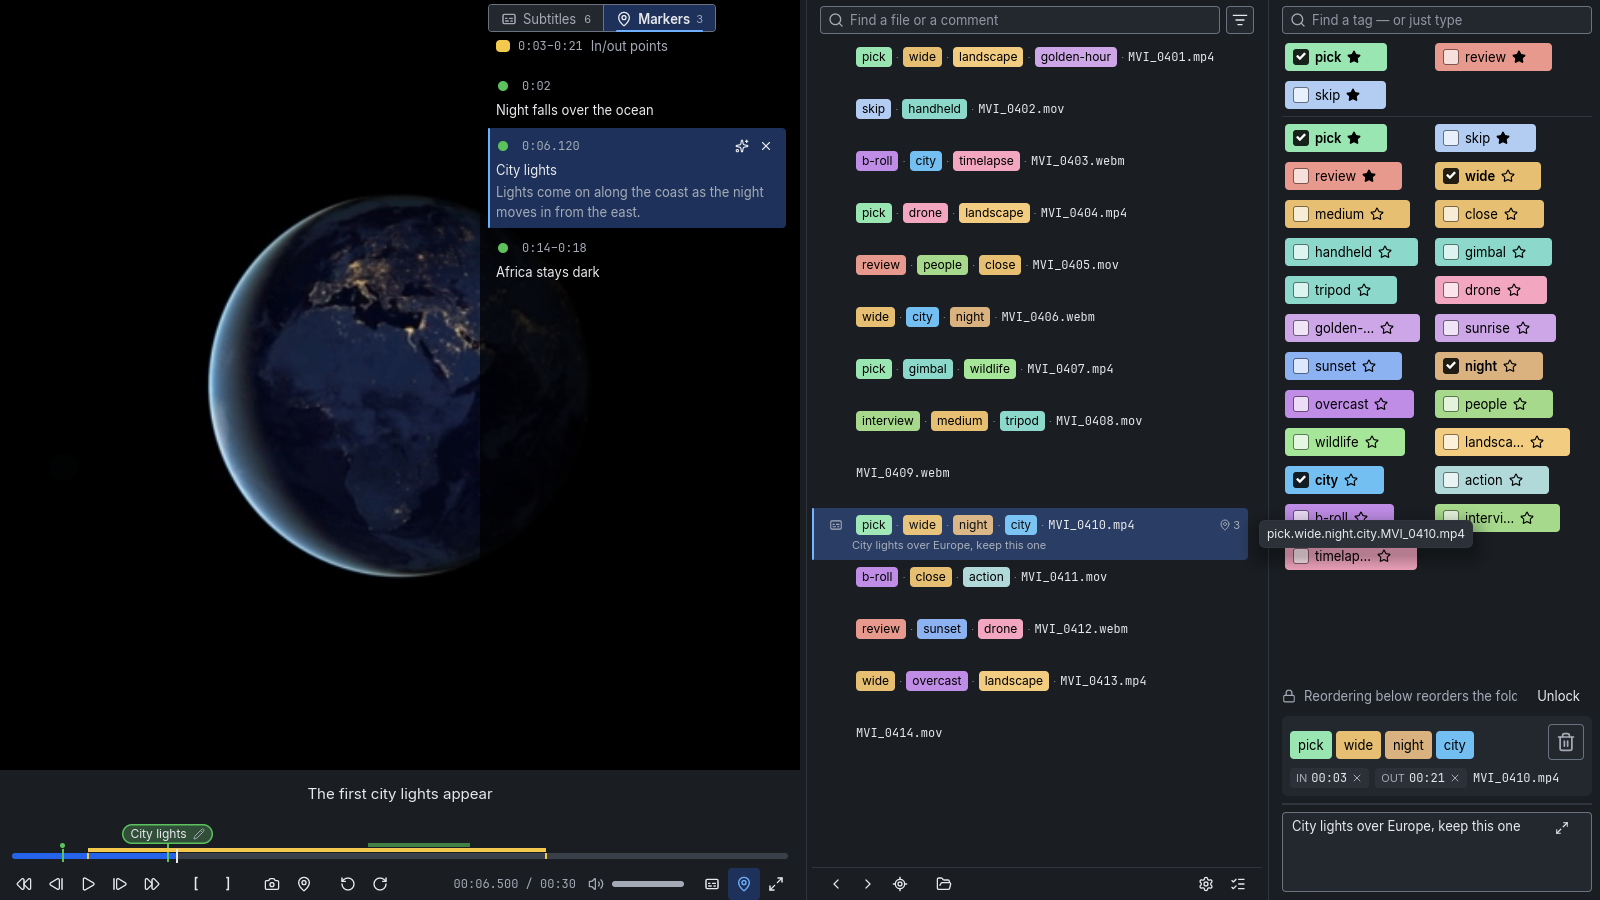
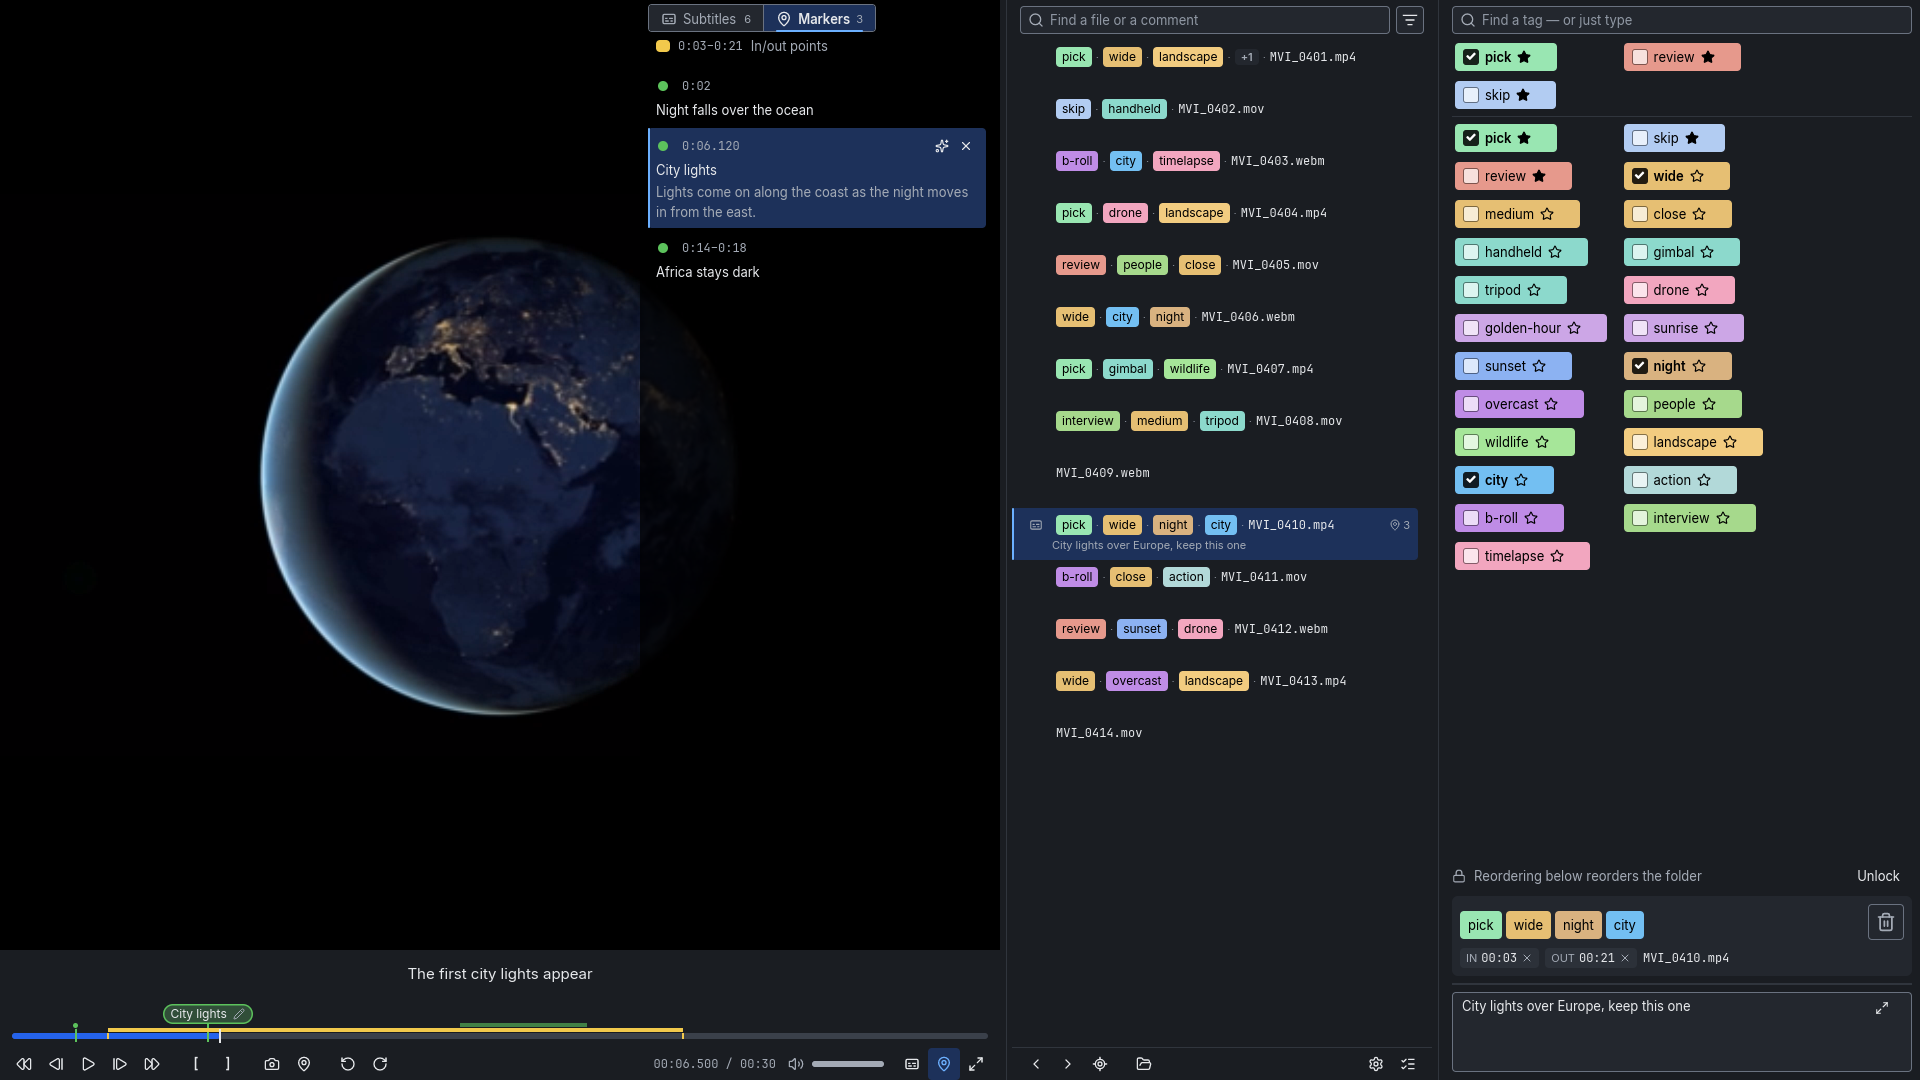
Store: Claude models only, certification kit required in CI, 1920x1080 screenshots, listing fixes; release 0.111
Review round 1 findings: the Settings model list offered OpenAI models that would be sent
the Anthropic key; the kit step could be skipped in CI; screenshots had a stuck tooltip and
clipped text; listing claims limited to MP4/MOV.

Claude-Session: https://claude.ai/code/session_01Brkax5HQB8RtsFa4mM8pW9

diff --git a/crates/frename-core/src/ai/mod.rs b/crates/frename-core/src/ai/mod.rs
@@ -6,7 +6,28 @@ pub mod block;
 pub mod key;
 
 pub use block::has_editor_comment;
+use clipscribe::{Model, Provider, MODELS};
 pub use clipscribe::{MomentsMode, SummaryLanguage};
+
+/// The models frename offers: Anthropic's. The only key it asks for and keeps is Anthropic's, so
+/// a model of another provider (clipscribe also knows OpenAI's) would be sent that key.
+pub fn models() -> Vec<Model> {
+    MODELS
+        .into_iter()
+        .filter(|m| m.provider == Provider::Anthropic)
+        .collect()
+}
+
+/// The offered model with `id`; an unknown id, or one of another provider (saved by an older
+/// version), is the default (the cheapest).
+pub fn model_from_id(id: &str) -> Model {
+    let models = models();
+    models
+        .iter()
+        .find(|m| m.id == id)
+        .copied()
+        .unwrap_or(models[0])
+}
 
 /// `moments`' name as the settings store it: `important` or `full`.
 pub fn moments_as_str(moments: MomentsMode) -> &'static str {
@@ -27,6 +48,15 @@ pub fn moments_from_name(name: &str) -> MomentsMode {
 #[cfg(test)]
 mod tests {
     use super::*;
+
+    #[test]
+    fn only_anthropic_models_are_offered() {
+        assert!(!models().is_empty());
+        assert!(models().iter().all(|m| m.provider == Provider::Anthropic));
+        assert_eq!(model_from_id("claude-haiku-4-5").id, "claude-haiku-4-5");
+        assert_eq!(model_from_id("gpt-4.1").id, models()[0].id);
+        assert_eq!(model_from_id("nonsense").id, models()[0].id);
+    }
 
     #[test]
     fn a_moments_mode_is_read_back_by_its_name() {

diff --git a/src/features/settings/view.rs b/src/features/settings/view.rs
@@ -1,7 +1,6 @@
 //! UI for the settings window (`docs/design/design-system.md` §14): a list of pages on the left,
 //! the page on the right, one option per row, and a button bar with Close.
 
-use clipscribe::{Model, MODELS};
 use frename_core::ai::key::{ApiKey, KeyState};
 use frename_core::ai::{MomentsMode, SummaryLanguage};
 use frename_core::{CommentStorage, CueLength, InOutStorage, MarkerStorage};
@@ -255,8 +254,8 @@ fn ai(state: &SettingsState) -> Element<'_, Message> {
                 fl!("settings-ai-model-label"),
                 layout::controls([
                     form::dropdown(
-                        MODELS,
-                        Some(Model::from_id(&settings.ai_model)),
+                        frename_core::ai::models(),
+                        Some(frename_core::ai::model_from_id(&settings.ai_model)),
                         Message::SetAiModel,
                     )
                     .width(FIELD_WIDTH_L)

diff --git a/src/app/state.rs b/src/app/state.rs
@@ -529,7 +529,7 @@ impl FrenameApp {
                     ),
                 ));
                 let model = Task::done(describe_ai_message(batch::describe_ai::Message::SetModel(
-                    clipscribe::Model::from_id(&self.settings.settings().ai_model),
+                    frename_core::ai::model_from_id(&self.settings.settings().ai_model),
                 )));
                 let moments = Task::done(describe_ai_message(
                     batch::describe_ai::Message::SetMoments(self.settings.settings().ai_moments),

diff --git a/packaging/store/listing.md b/packaging/store/listing.md
@@ -25,9 +25,9 @@ WHAT YOU CAN DO
 • Tag clips with one click or one key; copy the tags of one clip and paste them onto the next.
 • Find a clip fast: search the file list by name or by what you wrote in its comment, or show only untagged clips, clips with subtitles, a comment or markers.
 • Mark the usable part of a clip with in and out points ([ and ]).
-• Press F2 to drop a marker at an interesting moment, name it, give it a color, or hold F2 to mark a range. Markers are saved inside the video and Premiere Pro shows them on the clip.
-• Step through a clip frame by frame, save the current frame as a JPEG with F12, and turn a clip shot sideways without re-encoding it.
-• Write a comment per clip; it is saved inside the video, where Premiere Pro shows it, or as a text file next to it.
+• Press F2 to drop a marker at an interesting moment, name it, give it a color, or hold F2 to mark a range. In MP4 and MOV files markers are saved inside the video and Premiere Pro shows them on the clip.
+• Step through a clip frame by frame, save the current frame as a JPEG with F12, and turn a sideways MP4 or MOV clip upright without re-encoding it.
+• Write a comment per clip; it is saved inside MP4 and MOV videos, where Premiere Pro shows it, or as a text file next to the video (always for other formats).
 • Drag a clip from the list into Premiere Pro or Explorer: it is saved first, so it arrives under its new name with everything you marked.
 • Undo and redo tagging, markers, in/out points, comments and renames.
 • Your unsaved work is kept in a small recovery file: after a crash or a power cut, the next start puts you back where you were.
@@ -128,7 +128,7 @@ footage organizer
 clip logger
 ```
 ```text
-Premiere Pro markers
+clip markers
 ```
 ```text
 video notes

diff --git a/packaging/store/screenshots.md b/packaging/store/screenshots.md
@@ -2,7 +2,7 @@
 
 Upload in this order in Partner Center → Store listings → English (United States) →
 Screenshots → Desktop. The Store takes PNG, 1366×768 or larger, up to 10 per listing.
-The files here are 1600×900 captures of the app's demo mode, from the scenarios
+The files here are 1920×1080 captures of the app's demo mode, from the scenarios
 `docs/screenshots/store-*.toml`.
 
 | File | Caption (up to 200 characters) |
@@ -10,10 +10,11 @@ The files here are 1600×900 captures of the app's demo mode, from the scenarios
 | `screenshots/1-main-window.png` | Watch each clip, tag what you see, and move on: the clip you leave is renamed with its tags. |
 | `screenshots/2-markers-and-subtitles.png` | Name and color markers on the timeline; Premiere Pro shows them on the clip. Subtitles sit in a list beside the picture. |
 | `screenshots/3-ai-in-out.png` | Describe with AI writes a summary and suggests an In and Out; one click on the AI pill sets them. |
-| `screenshots/4-batch-actions.png` | Batch actions over a whole folder: move comments, markers and in/out points, tag commented clips, rotate, reorder tags. |
+| `screenshots/4-batch-actions.png` | Batch actions over a whole folder, for example moving comments between the videos and text files. |
 
-When the app's look changes, render them again (Linux, Xvfb as in `CLAUDE.md` "Looking at the UI";
-keep the mouse pointer outside the window) and look at every image before committing:
+When the app's look changes, render them again (Linux, Xvfb 1920×1080 as in `CLAUDE.md` "Looking at the UI";
+the scenarios keep the screen's centre, where Xvfb starts the pointer, over the video, so no
+tooltip is open) and look at every image before committing:
 
 ```sh
 cd docs/screenshots

diff --git a/docs/store-setup.md b/docs/store-setup.md
@@ -220,13 +220,13 @@ On a Windows 10/11 machine, ideally one where frename was never installed:
    videos: a clip plays (MP4 and MOV at least).
 3. Tag a clip and press PageDown: the file is renamed in that folder.
 4. Settings → Updates says **Updates come from the Microsoft Store**, with no Check button.
-   Check a few clips, click the batch button, and if a batch action shows **Open log**, click it:
+5. If a batch action shows **Open log** when it ends (check a few clips, run an action), click it:
    the log opens.
-5. Settings → enter an Anthropic API key, run **Describe with AI** on one short clip; restart
+6. Settings → enter an Anthropic API key, run **Describe with AI** on one short clip; restart
    frename: the key is still saved. Open Windows **Credential Manager** → **Windows
    Credentials**: an entry with `frename` in its name exists. (This is the one thing the agent
    could not verify: that the password store works from a Store app.)
-6. Uninstall from Start → right-click frename → **Uninstall**. The key entry remains in
+7. Uninstall from Start → right-click frename → **Uninstall**. The key entry remains in
    Credential Manager (remove it there, or in Settings before uninstalling).
 
 If anything fails, **hand it back** with what you saw (if it is the key in Credential Manager,

diff --git a/version.md b/version.md
@@ -1,3 +1,10 @@
+# 0.111
+## Added
+- frename is available as a Microsoft Store package (Windows). It updates through the Store, and on its first start it copies the settings of an installed frename.
+
+## Changed
+- Settings → Describe with AI lists only Claude models. The GPT models it offered would have been sent your Anthropic key; a saved GPT choice becomes Claude Haiku 4.5.
+
 # 0.110
 ## Added
 - Settings → Describe with AI → Moments: segments only for what stands out (as before) or covering the whole clip. Only "Only what stands out" suggests an In and Out (the **AI** pill).
